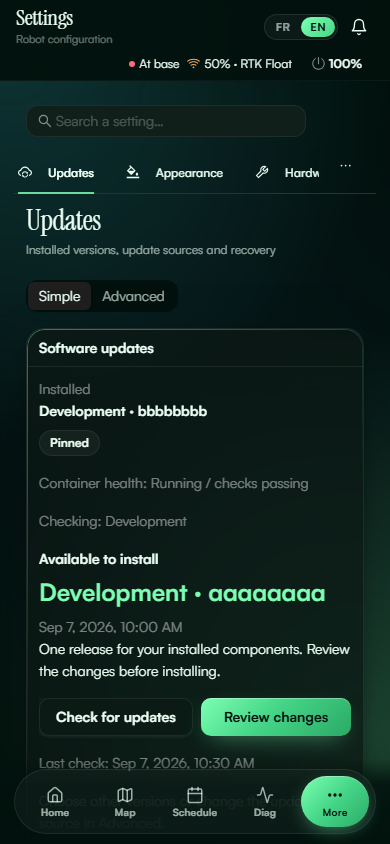
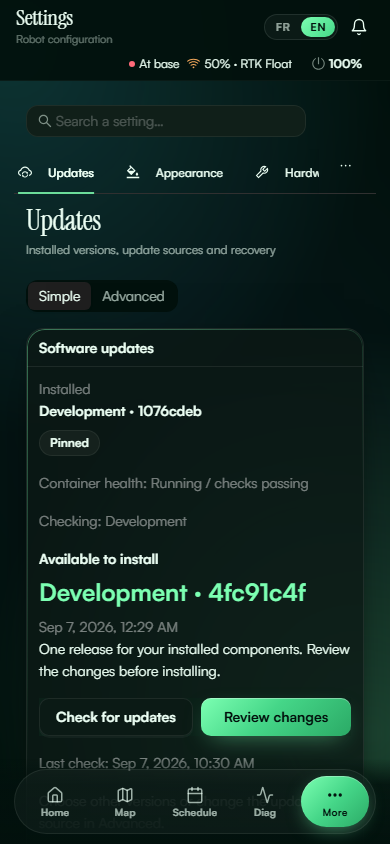
docs: show real upstream branch and single-container version selection

Changed region(s): [[0.5231, 0.6777, 0.8308, 0.7393], [0.3385, 0.4621, 0.5231, 0.4929], [0.3077, 0.7393, 0.4615, 0.7701]]

diff --git a/screenshots/UPDATER-README.md b/screenshots/UPDATER-README.md
@@ -1,6 +1,6 @@
 # PR 540 updater screenshots
 
-All 33 current screenshots were regenerated on 7 September 2026 for the simplified
+All 39 current screenshots were regenerated on 7 September 2026 for the simplified
 installed/available release UI, running version footer and complete notification captures.
 Reproduce: `cd gui/web && npx playwright test tests/e2e/host-updater.spec.ts --workers=2`.
 
@@ -22,3 +22,15 @@ Includes Simple, Advanced, review, mixed combinations, ROS/GUI/GPS/LiDAR/future
 service selectors, empty release lists, membership changes, custom branch settings,
 unread badge/opened notices and the mobile More summary.
 Older live-update-checks images are historical and are not linked as current by PR 540.
+
+Custom branch examples use real upstream `feat/gui-dashboard-improvements`,
+verified 2026-09-07: head f7e6f75ab8405c43ee1ddda3d946e029759b47d6
+(2026-05-03T10:17:49Z), parent 30b3faa9a7aea7ea7aea20deab06c5f9cc24939f
+(2026-05-03T10:10:38Z). Dev examples use 4fc91c4fe15d3bdaaab7f12503c3646c94162187
+and parent 1076cdebaecd0f18dd4509c7d90edd33aa0ede14, verified the same day.
+Branch names and commit IDs are real; deployment availability, image contracts,
+installed identities and publication dates remain simulated (commit dates are
+used for illustrative build timestamps). No claim that these branches publish
+compatible updater assets is made. The one-component example keeps the installed
+base of the custom branch and selects its newer GUI build. Dev base plus GUI
+from another branch is unsupported and is not depicted as installable.
